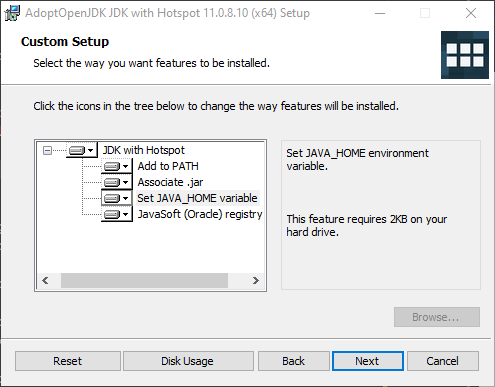
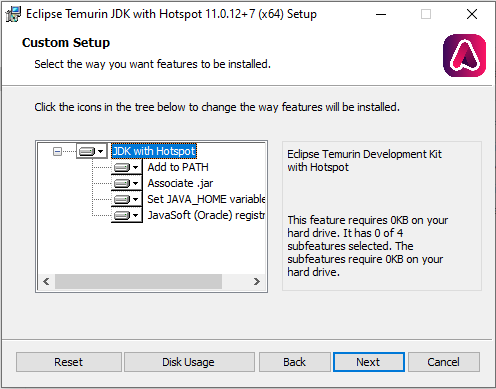
Updated windows jdk instructions to use adoptium

diff --git a/index.md b/index.md
@@ -13,7 +13,7 @@ Include la virtual machine Java, le librerie Java, di base, il compilatore, e i 
 Esistono varie versioni del JDK, quella di riferimento è OpenJDK, a partire dalla quale ne vengono sviluppate altre sia gratuite che a pagamento (fra cui [Oracle JDK](https://www.oracle.com/technetwork/java/javase/downloads/index.html), [Eclipse OpenJ9](https://www.eclipse.org/openj9/), [Amazon Corretto](https://aws.amazon.com/corretto/), [GraalVM](https://www.graalvm.org/), [Bellsoft Liberica JDK](https://bell-sw.com/), [Azul Zulu](https://www.azul.com/downloads/zulu-community/?&show-old-builds=true)...).
 
 A sua volta, OpenJDK è distribuito in forma di sorgente, e vari distributori ne forniscono versioni binarie.
-Fra questi, [AdoptOpenJDK](https://adoptopenjdk.net/).
+Fra questi, [AdoptOpenJDK](https://adoptopenjdk.net/) (recentemente diventato [Adoptium](https://adoptium.net/)).
 La macchina virtuale Java di riferimento sarà OpenJDK 11 come fornita da AdoptOpenJDK.
 
 Seguono le istruzioni di installazione e configuazione per i vari sistemi operativi.
@@ -73,12 +73,11 @@ jabba use adopt@1.11.28-0
 
 I passi in comune a tutte le versioni di Windows sono i seguenti (di seguito si fa riferimento a Windows 10, analogamente per le versioni precedenti con eventuali variazioni in termini di interfaccia utente):
 
-1. Scaricare il JDK dalla [pagina di download ufficiale di AdoptOpenJDK][Adopt JDK download page].
-   Scegliere la versione OpenJDK 11 (LTS) e cliccare sul pulsante "Latest release". Selezionare quindi la piattaforma desiderata (Windows x32 oppure Windows x64).
-   Premere quindi il bottone "Install JDK"
-
+1. Scaricare il JDK dalla [pagina di download ufficiale di Adoptium][Adoptium download page].
+   Scegliere la versione OpenJDK 11 (LTS) e cliccare sul pulsante "Latest release".
+   
    ![Missing image](img/win10/adopt1.png)
-
+   
 2. Eseguire l'installer scaricato e seguire il wizard di installazione passo-passo.
 
    ![Missing image](img/win10/adopt2.png)
@@ -727,6 +726,7 @@ Ulteriori dettagli sono disponibili sulla [documentazione ufficiale](https://doc
 
 [JDK download page]: http://www.oracle.com/technetwork/java/javase/downloads/jdk8-downloads-2133151.html
 [Adopt JDK download page]: https://adoptopenjdk.net/index.html?variant=openjdk11&jvmVariant=hotspot
+[Adoptium download page]: https://adoptium.net/
 [Eclipse Download]: https://www.eclipse.org/downloads/
 [GIT-Windows Download]: https://git-for-windows.github.io/
 [GIT-OSX Download]: http://git-scm.com/download/mac
